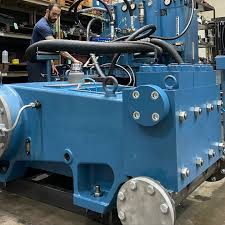
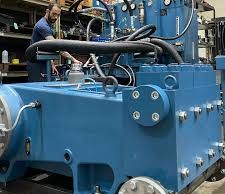
site finalizado

diff --git a/styles.css b/styles.css
@@ -1,26 +1,38 @@
-html {
+html, body {
     font-family: Arial, Helvetica, sans-serif;
+    height: 100%;
+    margin: 0;
+}
+
+body {
+    display: flex;
+    flex-direction: column;
+    min-height: 100vh;
 }
 
 .comeco {
     background-color: rgb(1, 54, 34);
     color: white;
-    height: 300px;
+    height: 220px;
     display: flex;
     align-items: center;
     justify-content: center;
+    padding: 15px;
 }
+
 
 .facebook, .instagram, .youtube {
-    width: 50px;
+    width: 30px;
 }
 
-.logo {
-    width: 200px;
+.tudo {
+    flex: 1;
 }
 
 .logo {
     width: 80px;
+    position: absolute;
+    left: 0%;
 }
 
 .cabecalho {
@@ -29,10 +41,26 @@ html {
     gap: 20px;
     align-items: center;
     margin: 5px;
+    padding: 8px;
 }
 
 .home, .sobre, .contato, .botao{
     text-decoration: none;
+}
+
+.menu-link {
+    color: rgb(15, 15, 190);
+    text-decoration: none;
+    font-weight: bold;
+    padding: 8px;
+    border-radius: 5px;
+    transition: all 0.4s ease;
+    display: inline-block;
+}
+
+.menu-link:hover {
+    background-color: rgb(15, 15, 190);
+    color: white;
 }
 
 .botao {
@@ -42,18 +70,7 @@ html {
     padding: 8px;
     border-radius: 5px;
 }
-.home {
-    color: white;
-    background-color: rgb(15, 15, 190);
-    padding: 8px;
-    border-radius: 5px;
-    font-weight: bolder;
-}
 
-.sobre, .contato {
-    color: rgb(15, 15, 190);
-    font-weight: bolder;
-}
 
 .titulo2 {
     display: flex;
@@ -63,25 +80,91 @@ html {
 }
 
 .pai{
+    background-color: rgb(236, 236, 236);
     display: flex;
-    gap: 30px;
+    gap: 25px;
     justify-content: center;
     align-content: center;
     align-items: center;
+    padding: 20px;
 }
 
 .filho {
+    background-color: white;
     border: 1px solid rgb(209, 209, 209);
-    padding: 30px;
+    padding: 20px;
     border-radius: 15px;
-    box-shadow: 1px 2px 1px 1px rgb(235, 235, 235);
+    box-shadow: 1px 2px 1px 1px rgb(201, 201, 201);
 }
 
 .titulos {
     font-weight: bolder;
 }
 
-.redesosociais {
-    background-color: gray; 
+.redessociais {
+    background-color: rgb(214, 214, 214);
+    display: flex;
+    flex-direction: column;
+    justify-content: center;
+    align-items: center;
+    padding: 5px;
 }
 
+.icones {
+    display: flex;
+    gap: 20px;
+    align-items: center;
+}
+
+.finalzinho {
+    background-color: rgb(32, 32, 32);
+    color: white;
+    padding: 20px;
+    margin: 0px;
+    display: flex;
+    justify-content: center;
+}
+
+.titulo2 {
+    padding: 8px
+
+}
+
+.titulo2 h2 {
+    margin-bottom: 0;
+}
+
+.titulo2 p {
+    margin-top: 5px; 
+}
+
+.form {
+    margin: 20px;
+    display: flex;
+    flex-direction: column;
+    align-items: center;
+    gap: 10px;
+}
+
+.botaoenviar {
+    display: flex;
+    justify-content: center;
+    margin: 10px;
+}
+
+.sobrenos {
+    max-width: 850px;   
+    margin: 0 auto;   
+    padding: 50px 0;    
+}
+
+.sobrenos p {
+    line-height: 2.0;    
+    margin-bottom: 40px; 
+    text-align: justify; 
+}
+
+.sobrenos h2 {
+    margin-bottom: 30px; 
+    font-size: 2.2rem;
+}

diff --git a/home.html b/home.html
@@ -1,0 +1,69 @@
+<!DOCTYPE html>
+<html lang="pt-BR">
+<head>
+    <meta charset="UTF-8">
+    <meta name="viewport" content="width=device-width, initial-scale=1.0">
+    <link rel="stylesheet" href="styles.css">
+    <title>Document</title>
+</head>
+<body>
+
+<div class="tudo">
+<div class="cabecalho">
+    <img src="/imagens/Windows.png" alt="" class="logo">
+    <a href="http://127.0.0.1:5500/home.html" class="menu-link home">Home</a>
+    <a href="http://127.0.0.1:5500/sobre.html" class="menu-link sobre">Sobre</a>
+    <a href="http://127.0.0.1:5500/contato.html" class="menu-link contato">Contato</a>
+</div>
+<div class="comeco">
+<h1 class="titulo">Bombas Hidráulicas</h1>
+</div>
+
+<div class="titulo2">
+<h2>Nossas Soluções</h2>
+<p>Trabalhamos com o que há de mais moderno em sistemas de bombeamento de água.</p>
+</div>
+
+<div class="pai">
+
+    <div class="filho">
+        <img src="/imagens/1.jpg" alt="">
+        <p class="titulos">Alta Pressão</p>
+        <p>Ideal para prédios e sistemas que exigem força total.</p>
+        <a href="https://www.carrefour.com.br/?cq_src=google_ads&cq_cmp=22643297179&cq_con=183404168551&cq_term=carrefour&cq_med=&cq_plac=&cq_net=g&cq_pos=&cq_plt=gp&gad_source=1&gad_campaignid=22643297179&gbraid=0AAAAADjinonN6RaBy9GG0Sq5Vc6Xw-sVl&gclid=CjwKCAjwzevPBhBaEiwAplAxvrg4gGSZcACXjXe9VSJOQtRK8oZHkRYULKzyetCYB2woVyNixFLCIxoCYeIQAvD_BwE" class="botao" target="_blank">Saiba Mais</a>
+    </div>
+    <div class="filho">
+        <img src="/imagens/2.jpg" alt="">
+        <p class="titulos">Submersíveis</p>
+        <p>Bombas projetadas para trabalhar dentro da água.</p>
+        <a href="https://www.carrefour.com.br/?cq_src=google_ads&cq_cmp=22643297179&cq_con=183404168551&cq_term=carrefour&cq_med=&cq_plac=&cq_net=g&cq_pos=&cq_plt=gp&gad_source=1&gad_campaignid=22643297179&gbraid=0AAAAADjinonN6RaBy9GG0Sq5Vc6Xw-sVl&gclid=CjwKCAjwzevPBhBaEiwAplAxvrg4gGSZcACXjXe9VSJOQtRK8oZHkRYULKzyetCYB2woVyNixFLCIxoCYeIQAvD_BwE" class="botao" target="_blank">Saiba Mais</a>
+    </div>
+    <div class="filho">
+        <img src="/imagens/3.jpg" alt="">
+        <p class="titulos">Manutenção</p>
+        <p>Suporte técnico especializado para todos os modelos.</p>
+        <a href="https://www.carrefour.com.br/?cq_src=google_ads&cq_cmp=22643297179&cq_con=183404168551&cq_term=carrefour&cq_med=&cq_plac=&cq_net=g&cq_pos=&cq_plt=gp&gad_source=1&gad_campaignid=22643297179&gbraid=0AAAAADjinonN6RaBy9GG0Sq5Vc6Xw-sVl&gclid=CjwKCAjwzevPBhBaEiwAplAxvrg4gGSZcACXjXe9VSJOQtRK8oZHkRYULKzyetCYB2woVyNixFLCIxoCYeIQAvD_BwE" class="botao" target="_blank">Saiba Mais</a>
+    </div>
+
+</div>
+
+
+    <div class="redessociais">
+        <p>Siga nossas redes sociais</p>
+        <div class="icones">
+            <a href="" target="_blank">
+                <img src="/imagens/Facebook_logo_(square).png" alt="" class="facebook"> </a>
+            <a href="" target="_blank">
+            <img src="/imagens/Instagram_icon.png" alt="" class="instagram"> </a>
+            <a href="" target="_blank">
+        <img src="/imagens/Youtube_logo.png" alt="" class="youtube"></a>
+        </div>
+    </div>
+</div>
+
+<footer>
+<p class="finalzinho">© 2026 Hidráulica Pro Brasil - Todos os direitos reservados</p>
+</div>
+</footer>
+</body>
+</html>

diff --git a/contato.html b/contato.html
@@ -1,0 +1,55 @@
+<!DOCTYPE html>
+<html lang="pt-BR">
+<head>
+    <meta charset="UTF-8">
+    <meta name="viewport" content="width=device-width, initial-scale=1.0">
+    <link rel="stylesheet" href="styles.css">
+    <title>Document</title>
+</head>
+<body>
+
+<div class="tudo">
+<div class="cabecalho">
+    <img src="/imagens/Windows.png" alt="" class="logo">
+    <a href="http://127.0.0.1:5500/home.html" class="menu-link home">Home</a>
+    <a href="http://127.0.0.1:5500/sobre.html" class="menu-link sobre">Sobre</a>
+    <a href="http://127.0.0.1:5500/contato.html" class="menu-link contato">Contato</a>
+</div>
+<div class="comeco">
+<h1 class="titulo">Bombas Hidráulicas</h1>
+</div>
+<form action="">
+<div class="form">
+            <label for="nome">Nome</label>
+            <input type="text" id="nome" name="nome" placeholder="Seu nome completo" required>
+            <label for="email">E-mail</label>
+            <input type="email" id="email" name="email" placeholder="[email redacted]" required>
+            <label for="mensagem">Mensagem</label>
+            <textarea id="mensagem" name="mensagem" rows="5" placeholder="Como podemos ajudar?" required></textarea>
+        <button type="submit" class="botaoenviar">Enviar Mensagem</button>
+                </div>
+    </form>
+</form>
+
+</div>
+
+
+    <div class="redessociais">
+        <p>Siga nossas redes sociais</p>
+        <div class="icones">
+            <a href="" target="_blank">
+                <img src="/imagens/Facebook_logo_(square).png" alt="" class="facebook"> </a>
+            <a href="" target="_blank">
+            <img src="/imagens/Instagram_icon.png" alt="" class="instagram"> </a>
+            <a href="" target="_blank">
+        <img src="/imagens/Youtube_logo.png" alt="" class="youtube"></a>
+        </div>
+    </div>
+</div>
+
+<footer>
+<p class="finalzinho">© 2026 Hidráulica Pro Brasil - Todos os direitos reservados</p>
+</div>
+</footer>
+</body>
+</html>

diff --git a/sobre.html b/sobre.html
@@ -1,0 +1,53 @@
+<!DOCTYPE html>
+<html lang="pt-BR">
+<head>
+    <meta charset="UTF-8">
+    <meta name="viewport" content="width=device-width, initial-scale=1.0">
+    <link rel="stylesheet" href="styles.css">
+    <title>Document</title>
+</head>
+<body>
+
+<div class="tudo">
+<div class="cabecalho">
+    <img src="/imagens/Windows.png" alt="" class="logo">
+    <a href="http://127.0.0.1:5500/home.html" class="menu-link home">Home</a>
+    <a href="http://127.0.0.1:5500/sobre.html" class="menu-link sobre">Sobre</a>
+    <a href="http://127.0.0.1:5500/contato.html" class="menu-link contato">Contato</a>
+</div>
+<div class="comeco">
+<h1 class="titulo">Bombas Hidráulicas</h1>
+</div>
+
+<div class="sobrenos">
+        <h2>Sobre Nós</h2>
+        <p>
+            Somos especialistas em transformar o manejo de recursos hídricos através de sistemas de bombeamento de alta performance. Com um olhar voltado para o futuro, selecionamos o que há de mais moderno em tecnologia hidráulica para oferecer soluções que unem durabilidade, potência e economia.
+        </p>
+        <p>
+            Nosso compromisso vai além da venda: buscamos entender a necessidade específica de cada projeto — seja ele residencial, agrícola ou industrial — garantindo a eficiência energética e o fluxo contínuo que o seu negócio exige. Aqui movemos o que é essencial com inovação e confiança.
+        </p>
+    </div>
+
+</div>
+
+
+    <div class="redessociais">
+        <p>Siga nossas redes sociais</p>
+        <div class="icones">
+            <a href="" target="_blank">
+                <img src="/imagens/Facebook_logo_(square).png" alt="" class="facebook"> </a>
+            <a href="" target="_blank">
+            <img src="/imagens/Instagram_icon.png" alt="" class="instagram"> </a>
+            <a href="" target="_blank">
+        <img src="/imagens/Youtube_logo.png" alt="" class="youtube"></a>
+        </div>
+    </div>
+</div>
+
+<footer>
+<p class="finalzinho">© 2026 Hidráulica Pro Brasil - Todos os direitos reservados</p>
+</div>
+</footer>
+</body>
+</html>